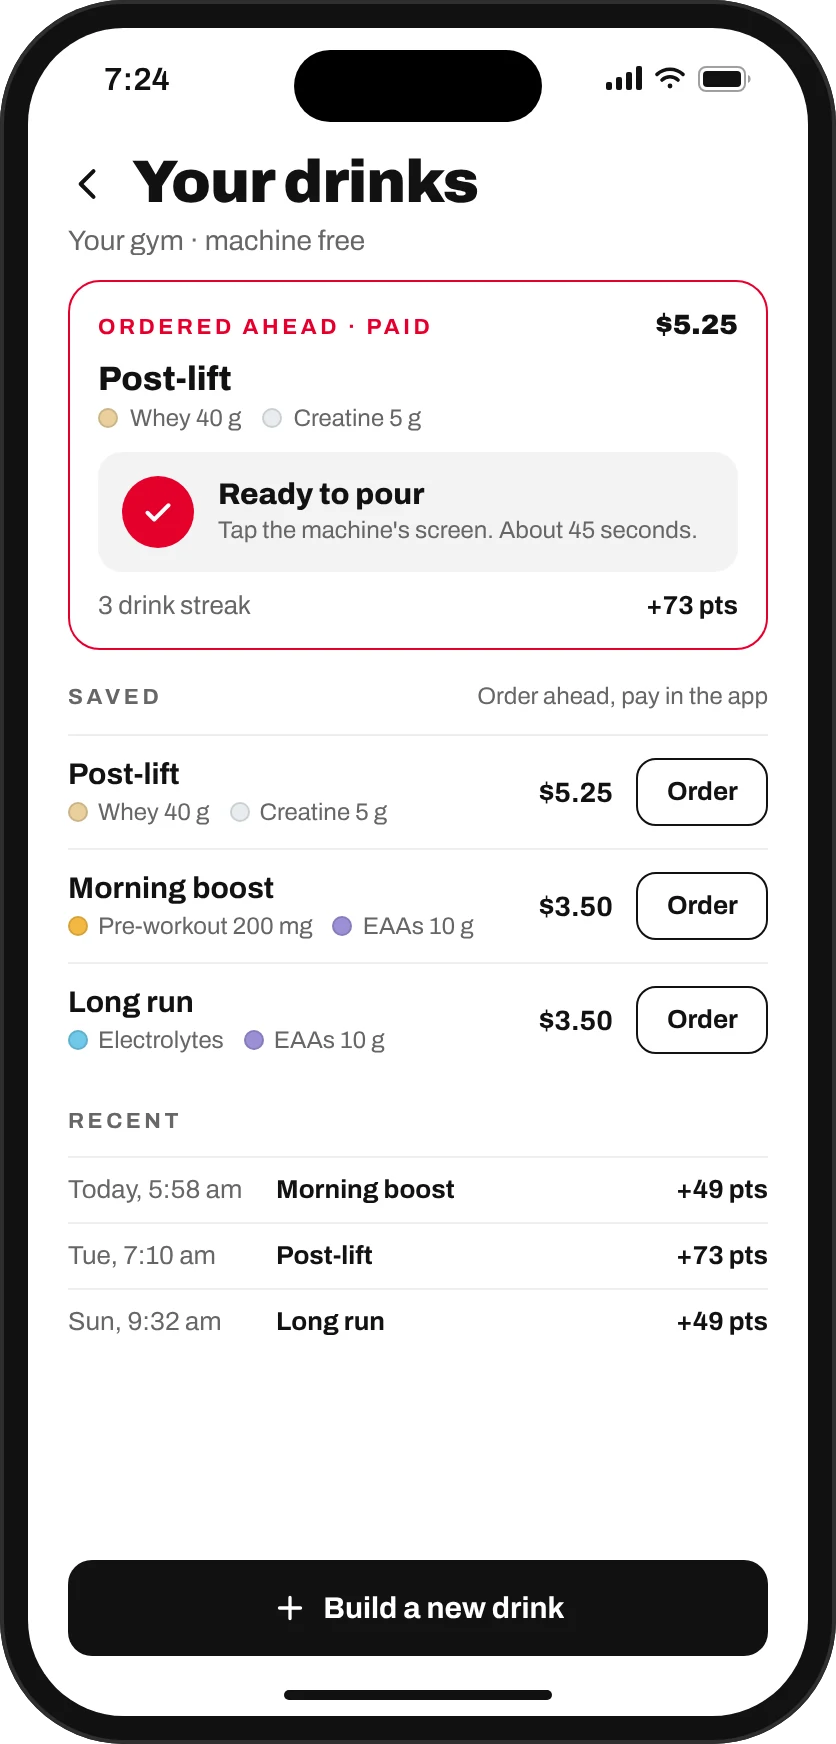
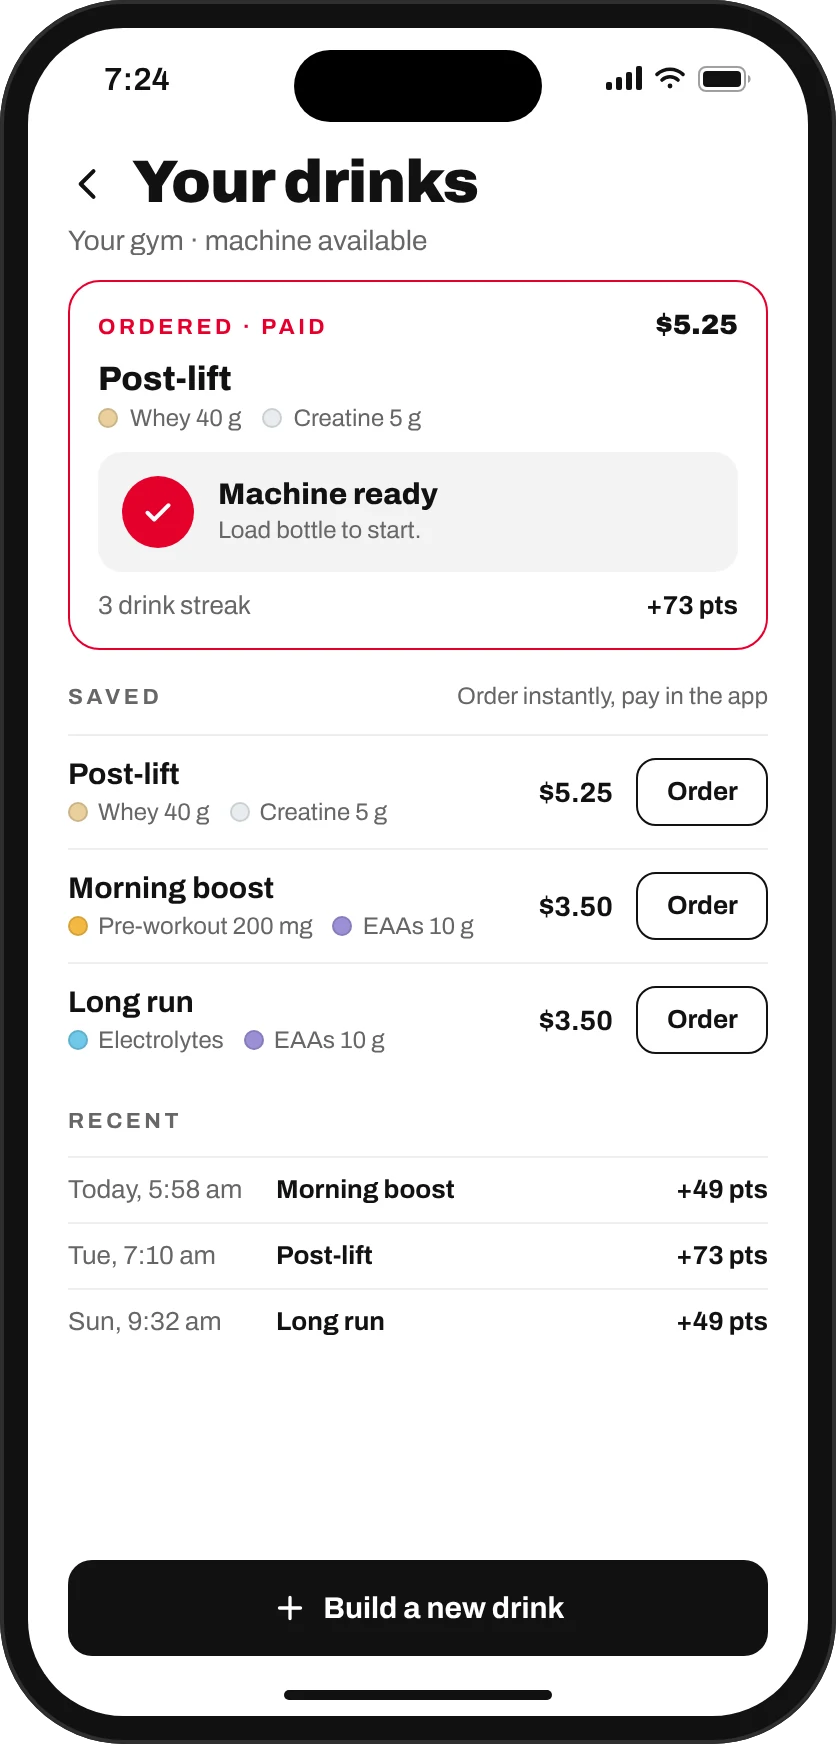
Your drinks: order instantly, not ahead
The machine can't hold filled bottles, so the app doesn't promise a
drink waiting for you. You order and pay in one tap at the machine.

- Screen: "Ordered · Paid", "Machine ready / Load bottle to start",
  "machine available", "Order instantly, pay in the app"
- Section intro, column heading and copy, and alt text to match

Claude-Session: https://claude.ai/code/session_01A8J5J7g1TaWCoRDFGmHrQU

diff --git a/how-it-works.html b/how-it-works.html
@@ -3,7 +3,7 @@
 <head>
 <!--
   Nutrimatic Website - how-it-works.html
-  Version 1.6.1
+  Version 1.6.2
   Created: 2026-09-13 - Initial marketing site (v1.0.0)
   Modified: 2026-09-15 - Now carries all product information: cutaway process story, feature tiles, pricing, audiences, founders; language pass (v1.1.0)
   Modified: 2026-09-15 - Contact via LinkedIn; email address removed from markup and structured data (v1.1.1)
@@ -21,6 +21,7 @@
   Modified: 2026-10-30 - The co-founders and their desk scene moved to the new About us page (about.html); About us in the nav and footer; the team photos gone; plain http goes straight to https (v1.5.0)
   Modified: 2026-10-30 - "The app" section replaces the old app tile: gym screen, saved drinks ordered ahead, a live scrolling Coachbot chat, stack and streak, with generic product names; three tiles left (v1.6.0)
   Modified: 2026-11-09 - App section: the full stack card ends the scrolling Coachbot chat; fourth column is the Your plan screen (next shipment, coming up, routine bonus) as a live phone; streak widget dropped (v1.6.1)
+  Modified: 2026-11-09 - Your drinks: order instantly, not ahead (the machine can't hold filled bottles); "Machine ready, load bottle to start"; "machine available" (v1.6.2)
 -->
 <meta charset="utf-8">
 <script>if(location.protocol==="http:"&&!/^(localhost|127\.|0\.0\.0\.0|\[?::1)/.test(location.hostname))location.replace("https:"+location.href.slice(5));</script>
@@ -323,7 +324,7 @@
       <div class="section__head">
         <p class="kicker">The app</p>
         <h2 id="app-title">Coached at the gym. Stocked at home.</h2>
-        <p>Save your drinks and order ahead. Coachbot plans around today's session, works out what your diet is missing, and keeps your supplements at home topped up. Coming with the first machines. <a class="app-link" href="waitlist.html?type=member">Get early access</a></p>
+        <p>Save your drinks and order them instantly. Coachbot plans around today's session, works out what your diet is missing, and keeps your supplements at home topped up. Coming with the first machines. <a class="app-link" href="waitlist.html?type=member">Get early access</a></p>
       </div>
       <div class="app-row">
         <article class="app-col">
@@ -335,10 +336,10 @@
         </article>
         <article class="app-col">
           <div class="app-col__art">
-            <img class="app-phone" src="assets/app/app-saved.webp" width="418" height="872" loading="lazy" decoding="async" alt="Your drinks: a post-lift shake ordered ahead and paid for, ready to pour at the machine, above saved blends with their prices and an Order button each.">
+            <img class="app-phone" src="assets/app/app-saved.webp" width="418" height="872" loading="lazy" decoding="async" alt="Your drinks: a post-lift shake ordered and paid for, with the machine ready and a prompt to load the bottle, above saved blends with their prices and an Order button each.">
           </div>
-          <h3>Save it once. Order ahead.</h3>
-          <p>Save your blends and portions, order on your way over and pay in the app. At the machine, tap the screen and it pours.</p>
+          <h3>Save it once. Order instantly.</h3>
+          <p>Save your blends and portions, then order and pay in one tap. When the machine is ready, load your bottle to start.</p>
         </article>
         <article class="app-col">
           <div class="app-col__art">
